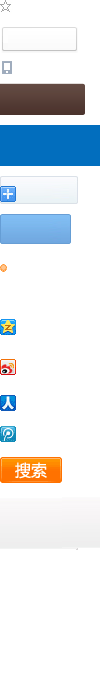
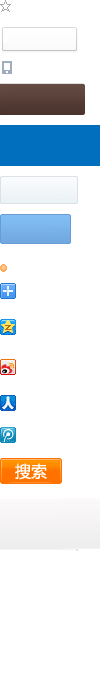
git-svn-id: http://www.svnchina.com/svn/xinwenda@137 847f1278-3494-4994-8dfb-0e8c01426fa5

Changed region(s): [[0.0, 0.6, 0.6, 0.69], [0.0, 0.39, 0.18, 0.45], [0.0, 0.24, 0.18, 0.3]]

diff --git a/static/css/style.css b/static/css/style.css
@@ -535,15 +535,15 @@ font-style:normal;
 .cityb_R .city_share .right{width:270px; height:34px; float:right;}
 .cityb_R .city_share span{color:#FF6600;}
 .cityb_R .city_share a{color:#0000CC;}
-.cityb_R .city_share .right span{color:#333; width:40px; height:34px; float:left;background:url(../images/icon2.png) no-repeat 2px -274px; padding-left:20px;}
+.share_to{color:#333; width:40px; height:34px;line-height:34px; float:left;background:url(../images/icon2.png) no-repeat 2px -275px; padding-left:20px;}
 .space,.weibo,.tenxun,.ren,.citybtn{background:url(../images/icon2.png) no-repeat;}
 .space{background-position:1px -310px; width:20px; height:34px; float:left;}
 .weibo{background-position:1px -350px; width:20px; height:34px; float:left;}
 .tenxun{background-position:1px -386px; width:20px; height:34px; float:left;}
-.ren{background-position:1px -417px; width:20px; height:34px; float:left;}
+.ren{background-position:1px -418px; width:20px; height:34px; float:left;}
 .city_search{width:670px; height:48px; line-height:48px; padding:0px 45px;margin:0px 20px 10px;background:url(../images/icon2.png) repeat-x 1px -500px;border:1px solid #d9d9d9; margin-top:10px;}
 .city_search .city_text{width:345px; height:26px; line-height:26px;margin-top:9px; background:#fff; border:1px solid #999; display:inline-block; margin-left:50px;  padding-left:5px;}
-.city_search .citybtn{width:62px; height:26px; background-position:0px -457px; margin-left:10px; *margin-left:5px;cursor:pointer; }
+.city_search .citybtn{width:62px; height:26px; background-position:0px -458px; margin-left:10px; *margin-left:5px;cursor:pointer; }
 .city_search input{margin:0px 4px;}
 .cpro{width:755px; background:#FFF8E9; clear:both;padding:0px 20px 15px 20px;}
 .cpro dl{width:754px; overflow:hidden; padding-top:16px;}
@@ -554,11 +554,54 @@ font-style:normal;
 .cpro dd p .cp_text{color:#333;}
 .cpro dd span a{color:#008000;}
 .cpro dd span a:hover{ text-decoration:none;}
-
-
-
-
-
-
-
+/*城市文章*/
+.articleLeft{width:729px; overflow:hidden; padding-right:26px;float:left;}
+.articleRight{width:254px; overflow:hidden; float:left; border-left:1px solid #ccc; }
+.articleLeft h1{font-size:22px; width:728px; height:40px; line-height:40px; text-align:center; border-bottom:1px dashed #ccc;}
+.articleLeft .notes{width:728px; height:25px; line-height:25px; color:#989898; text-align:center;}
+.articleLeft .notes span{margin:0px 18px;}
+.articleLeft .text-content p{ text-indent:2em; line-height:25px;display:inline-block; color:#333; font-family:"sim sun"; font-size:14px; padding:5px 0px;}
+.articleLeft .text_pic{display:inline-block;text-align:center; width:728px;overflow:hidden;}
+.text_lable{width:728px; height:38px; line-height:38px; border-bottom:1px dashed #ccc;}
+.citytext_share{width:728x;height:34px;}
+.text_lable strong{font-size:14px; margin-right:5px; color:#333;}
+.text_lable a{color:#333; margin-right:5px; font-size:14px;}
+.ln_pg{width:728px; height:38px; line-height:38px;}
+.ln_pg .last_page{font-size:14px; margin-right:30px;}
+.more_recommend  h2{font-size:16px; height:40px; line-height:40px; color:#333;}
+.more_recommend ul{width:728px; overflow:hidden;padding:10px 0; border-top:1px solid #ccc; border-bottom:1px solid #ccc;}
+.more_recommend ul li{margin-right:15px; float:left;}
+.more_article{width:728x; overflow:hidden;}
+.more_article h2{font-size:16px; height:40px; line-height:40px; color:#333;}
+.more_article ul{width:728px; overflow:hidden; font-size:14px; padding-bottom:10px;}
+.more_article li{width:330px; height:25px;line-height:25px; overflow:hidden; float:left;background:url(../images/squary.jpg) no-repeat left center; padding-left:8px;}
+.text_more{color:#333; line-height:25px; }
+.text_more .icon{margin-right:4px;}
+.text_more .icon a{margin:0px 2px;}
+.text_more span a{color:#0000CC; margin:0px 2px;}
+.articleRight .ab_policy{width:255px; overflow:hidden;}
+.articleRight .ab_policy h2{width:240px; height:36px; line-height:36px; font-size:16px; padding-left:15px;}
+.articleRight .ab_policy ul{width:240px; overflow:hidden; padding-left:15px; border-bottom:1px solid #ccc; padding-bottom:5px;}
+.articleRight .ab_policy ul li{width:240px; height:25px; line-height:25px;}
+.articleRight .ab_policy li a{width:190px; height:25px; overflow:hidden; float:left;}
+.articleRight .ab_policy li span{width:50px; float:left; color:#666;}
+.news_message{width:240px; overflow:hidden; padding-left:15px;}
+.news_message h2{width:239px; height:40px; line-height:40px;}
+.news_message h2 span{float:left; font-size:16px; color:#333;}
+.news_message h2 a{font-weight:normal; float:right; font-size:12px; background:url(../images/more.jpg) no-repeat right center; padding-right:15px;}
+.news_message dl{width:240px; overflow:hidden;}
+.news_message dt{float:left; width:118px; height:126px;}
+.news_message dd{width:114px; float:left; margin-left:8px;}
+.news_message dd h3{width:114px; height:20px; line-height:20px; overflow:hidden;}
+.news_message dd h3 a{color:#333; font-size:14px;}
+.news_message dd p{width:114px; height:100px; overflow:hidden; line-height:20px; margin-top:5px;}
+.news_message dd p a{width:114px; height:100px; overflow:hidden; text-overflow:ellipsis; display:inline-block;}
+.news_message ul{width:240px; overflow:hidden; padding-top:5px;}
+.news_message li{height:30px; line-height:30px; width:230px; overflow:hidden;background:url(../images/city_squary.jpg) no-repeat left center; padding-left:10px;}
+.city_item{width:240px; overflow:hidden;padding:5px 0 5px 15px;}
+.city_item h2{font-size:16px; color:#333;}
+.city_item p a{font-size:16px; color:#0000CC; height:25px;line-height:25px; width:240px; display:block; overflow:hidden; text-decoration:underline;}
+.city_item .city_t{width:240px; overflow:hidden; line-height:20px;}
+.city_item .city_t a{color:#000;}
+.city_item  span a{color:green; height:25px; display:block; line-height:25px;}
 

diff --git a/home/views/city_zixun.php b/home/views/city_zixun.php
@@ -1,31 +1,162 @@
 <!DOCTYPE html>
 <html lang="en-US">
 <head>
-    <meta charset="UTF-8">
-    <title>中国创业指导网</title>
-    <link rel="stylesheet" type="text/css" href="<?php echo src_url('css/style.css'); ?>"/>
+<meta charset="UTF-8">
+<title>中国创业知道网</title>
+<link rel="stylesheet" type="text/css" href="<?php echo src_url('css/style.css');?>"/>
 </head>
-<body class="citylist_box">
+<body>
 <div class="header">
-    <div class="head_box">
-        <p class="left">你好，欢迎来到中国创业指导网！</p>
-        <div class="right">
-            <span><a href="#">请登录</a></span><span><a href="#">免费注册</a></span><span><a href="#">指导网首页</a></span><span
-                class="mobile"><a href="#">手机版</a></span>
-        </div>
-    </div>
+		<div class="head_box">
+			<p class="left">你好，欢迎来到中国创业指导网！</p>
+			<div class="right">
+				<span><a href="#">请登录</a></span><span><a href="#">免费注册</a></span><span><a href="#">指导网首页</a></span><span class="mobile"><a href="#">手机版</a></span>
+			</div>
+		</div>
 </div>
 <div class="second_top">
-    <div class="logo2"><a href="#"><img width="199" height="36" src="http://www.7808.com/static/images/logo_two.jpg"></a></div>
-    <div class="right">
-        <p><a href="#" class="current">找产品</a><a href="#">找求购</a><a href="#">找公司</a></P>
-        <div class="input_box">
-            <form>
-                <input type="text" name="" class="text_search"> <input type="button" name="" class="btn_search" value="搜索"> <strong class="post_message"><a href="#">免费发布信息</a></strong>
-            </form>
-        </div>
-    </div>
+	<div class="logo2"><a href="#"><img width="199" height="36" src="http://www.7808.com/static/images/logo_two.jpg"></a></div>
+	<div class="right">
+		<p><a href="#" class="current">找产品</a><a href="#">找求购</a><a href="#">找公司</a></P>
+		<div class="input_box">
+				<form>
+					<input type="text" name="" class="text_search">
+					<input type="button" name="" class="btn_search" value="搜索">
+					<strong class="post_message"><a href="#">免费发布信息</a></strong>
+				</form>
+		</div>
+		</div>
 </div>
-<h1></h1>
+<div class="second_nav">
+	<ul>
+		<li><a href="#">首页</a></li>
+		<li><a href="#">工业品</a></li>
+		<li><a href="#">消费品</a></li>
+		<li><a href="#">原材料</a></li>
+		<li><a href="#">商务服务</a></li>
+		<li class="no_bg"><a href="#">企业名录</a></li>
+	</ul>
+</div>
+<div class="center_box">
+	<div class="articleLeft">
+		<h1 class="tittle">虎门服饰安全中心开业啦</h1>
+		<p class="notes">2013-11-12<span>13:39</span>来源：7808服装网<span>作者：无名</span></p>
+		<div class="text-content">
+			<p>有关媒体报道和网站信息显示：岁末年初，30多位将军亮相新岗位。海军：济南军区副司令员、北海舰队司令员田中，1956年12月生，任海军副司令员；北海舰队副司令员丁毅，1959年生，任海军副司令员。
+</p>
+<div class="text_pic"><img width="500" height="281" src="http://www.7808.com/static/images/p_2.jpg"></div>
+<p>有关媒体报道和网站信息显示：岁末年初，30多位将军亮相新岗位。海军：济南军口香法式脆皮蛋糕以其产品独特的风味，脆而不燥，口香法式口香法式脆皮蛋糕以其产品独特的风味，脆而不燥，口香法式脆皮蛋糕以其产品独特的风味，脆口香法式脆皮蛋糕以其产品独特的风味，脆甜而不腻口香法式脆皮蛋糕以其产品独特的风味，脆而不燥，口香法式脆皮蛋糕以其产品独特的风味，脆口香法式脆皮蛋糕以其产品独特的风味，脆甜而不腻脆皮蛋糕以其产品独特的风味，脆口香法式脆皮蛋糕以其产品独特的风味，脆甜而不腻区副司令员、北海舰队司令员田中，1956年12月生，任海军副司令员；北海舰队副司令员丁毅，1959年生，任海军副司令员。
+</p>
+		</div>
+		<div class="citytext_share"><span class="share_to">分享到</span><a href="#" class="space"></a><a href="#" class="weibo"></a><a href="#" class="tenxun"></a><a href="#" class="ren"></a></div>
+		<p class="text_lable">
+			<strong>本文标签</strong><a href="#">港式甜品</a><a href="#">贵雅</a>
+		</p>
+		<div class="ln_pg"><span class="last_page"><a href="#">上一篇：岁末年初，30多位将军亮相新岗位</a></span><span class="next_page"><a href="#">下一篇：岁末年初，30多位将军亮相新岗位</a></span></div>
+		<div class="more_recommend">
+			<h2>相关推荐</h2>
+			<ul>
+				<li><a href="#"><img width="156" height="97" src="http://www.7808.com/static/images/p_3.jpg"></a></li>
+				<li><a href="#"><img width="156" height="97" src="http://www.7808.com/static/images/p_3.jpg"></a></li>
+				<li><a href="#"><img width="156" height="97" src="http://www.7808.com/static/images/p_3.jpg"></a></li>
+				<li><a href="#"><img width="156" height="97" src="http://www.7808.com/static/images/p_3.jpg"></a></li>
+			</ul>
+		</div>
+		<div class="more_article">
+			<h2>相关推荐</h2>
+			<ul>
+				<li><a href="#">有关媒体报道和网站信息显示</a></li>
+				<li><a href="#">有关媒体报道和网站信息显示</a></li>
+				<li><a href="#">有关媒体报道和网站信息显示</a></li>
+				<li><a href="#">有关媒体报道和网站信息显示</a></li>
+				<li><a href="#">有关媒体报道和网站信息显示</a></li>
+				<li><a href="#">有关媒体报道和网站信息显示</a></li>
+				<li><a href="#">有关媒体报道和网站信息显示</a></li>
+				<li><a href="#">有关媒体报道和网站信息显示</a></li>
+				<li><a href="#">有关媒体报道和网站信息显示</a></li>
+				<li><a href="#">有关媒体报道和网站信息显示</a></li>
+			</ul>
+		</div>
+		<div class="text_more">您如果觉得“<strong>普通龙门铣床光机普通铣床光机，品种多，规格齐，质量好</strong>”描述资料不够全，请联系我们获取
+详细资料。（联系我时，告诉我从中国创业加盟网看到将给您最大优惠！）<br>点击右侧图标查看是否被收录：<span class="
+"><a href="#"><img width="16" height="16" src="http://www.7808.com/static/images/baidu_1.jpg"><a href="#"><img width="16" height="16" src="http://www.7808.com/static/images/hua.jpg"></a><a href="#"><img width="16" height="16" src="http://www.7808.com/static/images/sogou_1.jpg"></a><a href="#"><img width="16" height="16" src="http://www.7808.com/static/images/soso_1.jpg"></a><a href="#"><img width="16" height="16" src="http://www.7808.com/static/images/360_1.jpg"></a></span></a>连接：<a href="#">http://www.7808.com/index/city_zixun</a><br/>查看<span><a href="">最新普通铣床供应信息</a></span>或<span><a href="">发布普通铣床供应信息</a></span></div>
+	</div>
+	<div class="articleRight">
+		<div class="ab_policy">
+			<h2><a href="#">调用贷款政策相关</a></h2>
+			<ul>
+				<li><a href="#">有关媒体报道和网站信息显</a><span>一个回答</span></li>
+				<li><a href="#">有关媒体报道和网站信息显</a><span>二个回答</span></li>
+				<li><a href="#">有关媒体报道和网站信息显</a><span>一个回答</span></li>
+				<li><a href="#">有关媒体报道和网站信息显</a><span>一个回答</span></li>
+				<li><a href="#">有关媒体报道和网站信息显</a><span>一个回答</span></li>
+				<li><a href="#">有关媒体报道和网站信息显</a><span>一个回答</span></li>
+				<li><a href="#">有关媒体报道和网站信息显</a><span>一个回答</span></li>
+			</ul>	
+		</div>
+		<div class="ab_policy">
+			<h2><a href="#">调用贷款政策相关</a></h2>
+			<ul>
+				<li><a href="#">有关媒体报道和网站信息显</a><span>一个回答</span></li>
+				<li><a href="#">有关媒体报道和网站信息显</a><span>二个回答</span></li>
+				<li><a href="#">有关媒体报道和网站信息显</a><span>一个回答</span></li>
+				<li><a href="#">有关媒体报道和网站信息显</a><span>一个回答</span></li>
+				<li><a href="#">有关媒体报道和网站信息显</a><span>一个回答</span></li>
+				<li><a href="#">有关媒体报道和网站信息显</a><span>一个回答</span></li>
+				<li><a href="#">有关媒体报道和网站信息显</a><span>一个回答</span></li>
+			</ul>	
+		</div>
+		<div class="news_message">
+			<h2><span>最新资讯</span><a href="#">更多</a></h2>
+			<dl>
+				<dt><a href="#"><img width="118" height="126" src="http://www.7808.com/static/images/p_4.jpg"></a></dt>
+				<dd>
+					<h3><a href="#">冰之物语相关推荐</a></h3>	
+					<p><a href="#">有关媒体报道和网站信息显有关媒体报道和网站信息显有关媒体报道和网站信息显有关媒体报道和网站信息显</a></p>
+				</dd>
+			</dl>
+			<ul>
+				<li><a href="#">有关媒体报道和网站信息显</a></li>
+				<li><a href="#">有关媒体报道和网站信息显</a></li>
+				<li><a href="#">有关媒体报道和网站信息显</a></li>
+				<li><a href="#">有关媒体报道和网站信息显</a></li>
+				<li><a href="#">有关媒体报道和网站信息显</a></li>
+				<li><a href="#">有关媒体报道和网站信息显</a></li>
+				<li><a href="#">有关媒体报道和网站信息显</a></li>
+				<li><a href="#">有关媒体报道和网站信息显</a></li>
+			</ul>
+		</div>
+		<div class="city_item">
+			<h2>推荐项目</h2>
+			<div class="city_it_inner">
+				<p><a href="#">有关媒体报道和网站信息显</a></p>			
+				<div class="city_t"><a href="#">有关媒体报道和网站信息显有关媒体报道和网站信息显有关媒体报道和网站信息显有关媒体报道和网站信息显</a></div>
+				<span><a href="#">www.7808/xiqiangguang.com</a></span>
+			</div>
+			<div class="city_it_inner">
+				<p><a href="#">有关媒体报道和网站信息显</a></p>			
+				<div class="city_t"><a href="#">有关媒体报道和网站信息显有关媒体报道和网站信息显有关媒体报道和网站信息显有关媒体报道和网站信息显</a></div>
+				<span><a href="#">www.7808/xiqiangguang.com</a></span>
+			</div>
+			<div class="city_it_inner">
+				<p><a href="#">有关媒体报道和网站信息显</a></p>			
+				<div class="city_t"><a href="#">有关媒体报道和网站信息显有关媒体报道和网站信息显有关媒体报道和网站信息显有关媒体报道和网站信息显</a></div>
+				<span><a href="#">www.7808/xiqiangguang.com</a></span>
+			</div>
+			<div class="city_it_inner">
+				<p><a href="#">有关媒体报道和网站信息显</a></p>			
+				<div class="city_t"><a href="#">有关媒体报道和网站信息显有关媒体报道和网站信息显有关媒体报道和网站信息显有关媒体报道和网站信息显</a></div>
+				<span><a href="#">www.7808/xiqiangguang.com</a></span>
+			</div>
+			<div class="city_it_inner">
+				<p><a href="#">有关媒体报道和网站信息显</a></p>			
+				<div class="city_t"><a href="#">有关媒体报道和网站信息显有关媒体报道和网站信息显有关媒体报道和网站信息显有关媒体报道和网站信息显</a></div>
+				<span><a href="#">www.7808/xiqiangguang.com</a></span>
+			</div>
+		</div>
+		
+	</div>
+</div>
+</div> 
 </body>
 </html>

diff --git a/home/views/city_list.php b/home/views/city_list.php
@@ -180,7 +180,7 @@
 			</dl>
 		</div>
 		<div class="page_up"><a href="#" class="current">1</a><a href="#">2</a><a href="#">3</a><a href="#">4</a><a href="#">5</a><a href="#">下一页</a></div>
-		<div class="city_share"><p class="left">共<span>738</span>条凉茶代理加盟报价信息，<a href="#">马上发布一条凉茶代理加盟报价信息》</a></p><p class="right"><span>分享到</span><a href="#" class="space"></a><a href="#" class="weibo"></a><a href="#" class="tenxun"></a><a href="#" class="ren"></a></p></div>
+		<div class="city_share"><p class="left">共<span>738</span>条凉茶代理加盟报价信息，<a href="#">马上发布一条凉茶代理加盟报价信息》</a></p><p class="right"><span class="share_to">分享到</span><a href="#" class="space"></a><a href="#" class="weibo"></a><a href="#" class="tenxun"></a><a href="#" class="ren"></a></p></div>
 	    <p class="last_text">满口香法式脆皮蛋糕以其产品独特的风味，脆而不燥，口香法式脆皮蛋糕以其产品独特的风味，脆口香法式脆皮蛋糕以其产品独特的风味，脆甜而不腻，又香又甜，法国风味，现烤现卖，远离添加剂</p>
 		<div class="city_search">
 			<form>

diff --git a/home/views/layout_main.php b/home/views/layout_main.php
@@ -12,7 +12,7 @@
 <body>
 	<div id="top_box">
 		<div class="top_inner">
-		    <div class="logo"><a href="<?php echo base_url('');?>"><img src="<?php echo src_url('images/logo.jpg');?>" width="242" height="41"></a></div>
+		    <div class="logo"><a href="<?php echo base_url('');?>"><img src="<?php echo src_url('images/logo.jpg');?>" width="200" height="38"></a></div>
 		    <div class="search_box">
                 <?php if($this->session->userdata('logined_in')): ?>
                     <p>你好，<?php echo $this->session->userdata('username');  ?>！<span class="loginwrap"><a href="<?php echo base_url('user/center');?>" class="top_login">用户中心</a><a href="<?php echo base_url('user/logout');?>">退出登录</a></span><span class="phone"><a href="javascript:void(0);">手机版</a></span><a href="javascript:void(0);">收藏夹</a></p>

diff --git a/home/config/database.php b/home/config/database.php
@@ -48,9 +48,9 @@
 $active_group = 'default';
 $active_record = TRUE;
 
-$db['default']['hostname'] = '127.0.0.1';
-$db['default']['username'] = 'xinwenda';
-$db['default']['password'] = 'xinwenDa2014@';
+$db['default']['hostname'] = '192.168.15.2';
+$db['default']['username'] = 'root';
+$db['default']['password'] = '123456';
 $db['default']['database'] = 'xinwenda';
 $db['default']['dbdriver'] = 'mysql';
 $db['default']['dbprefix'] = 'xwd_';
